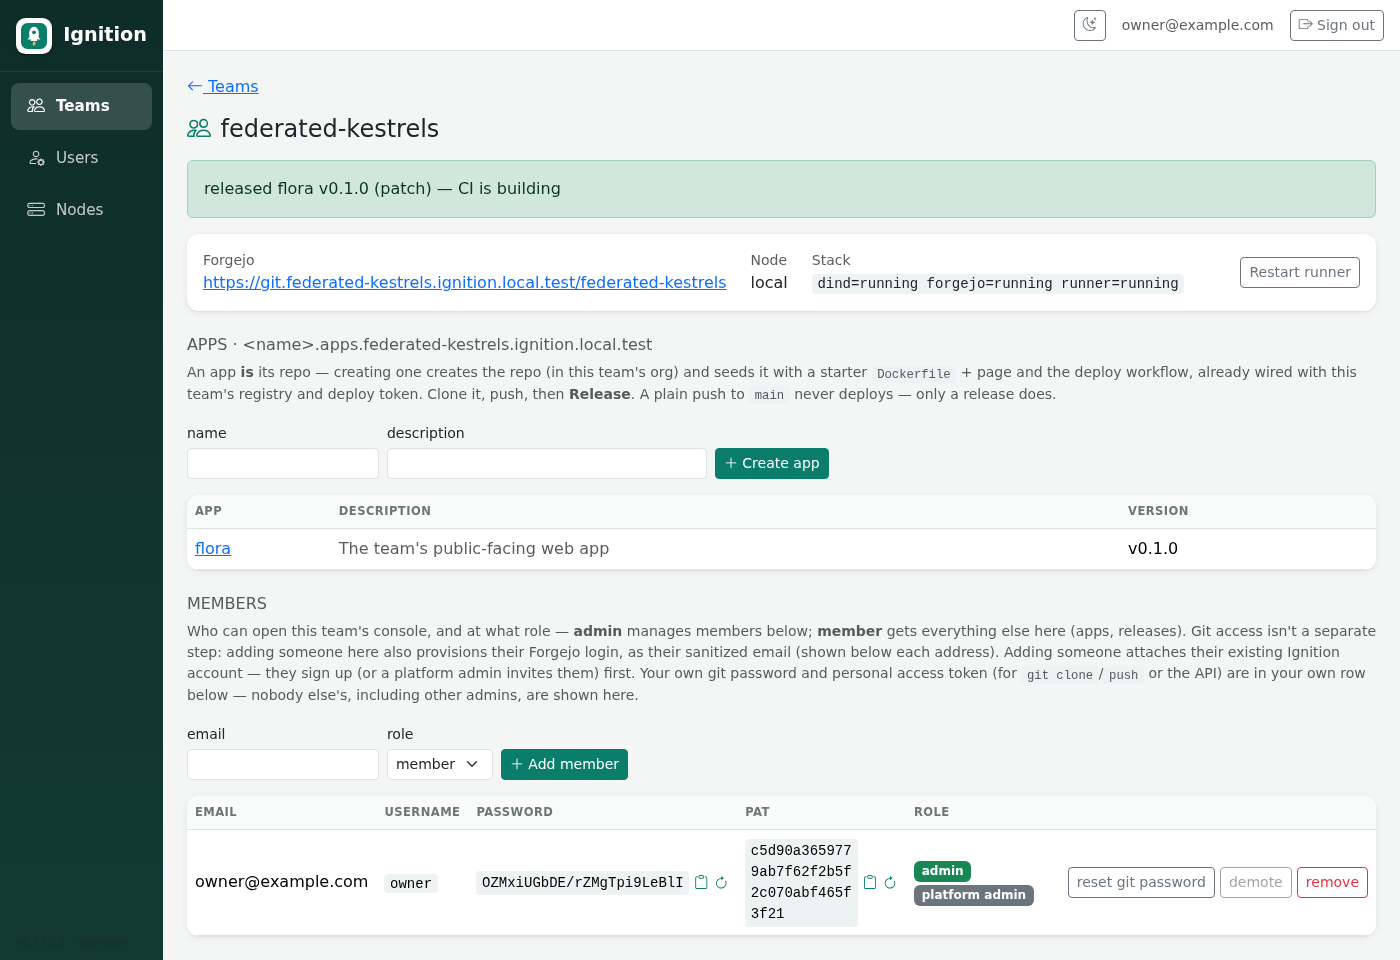
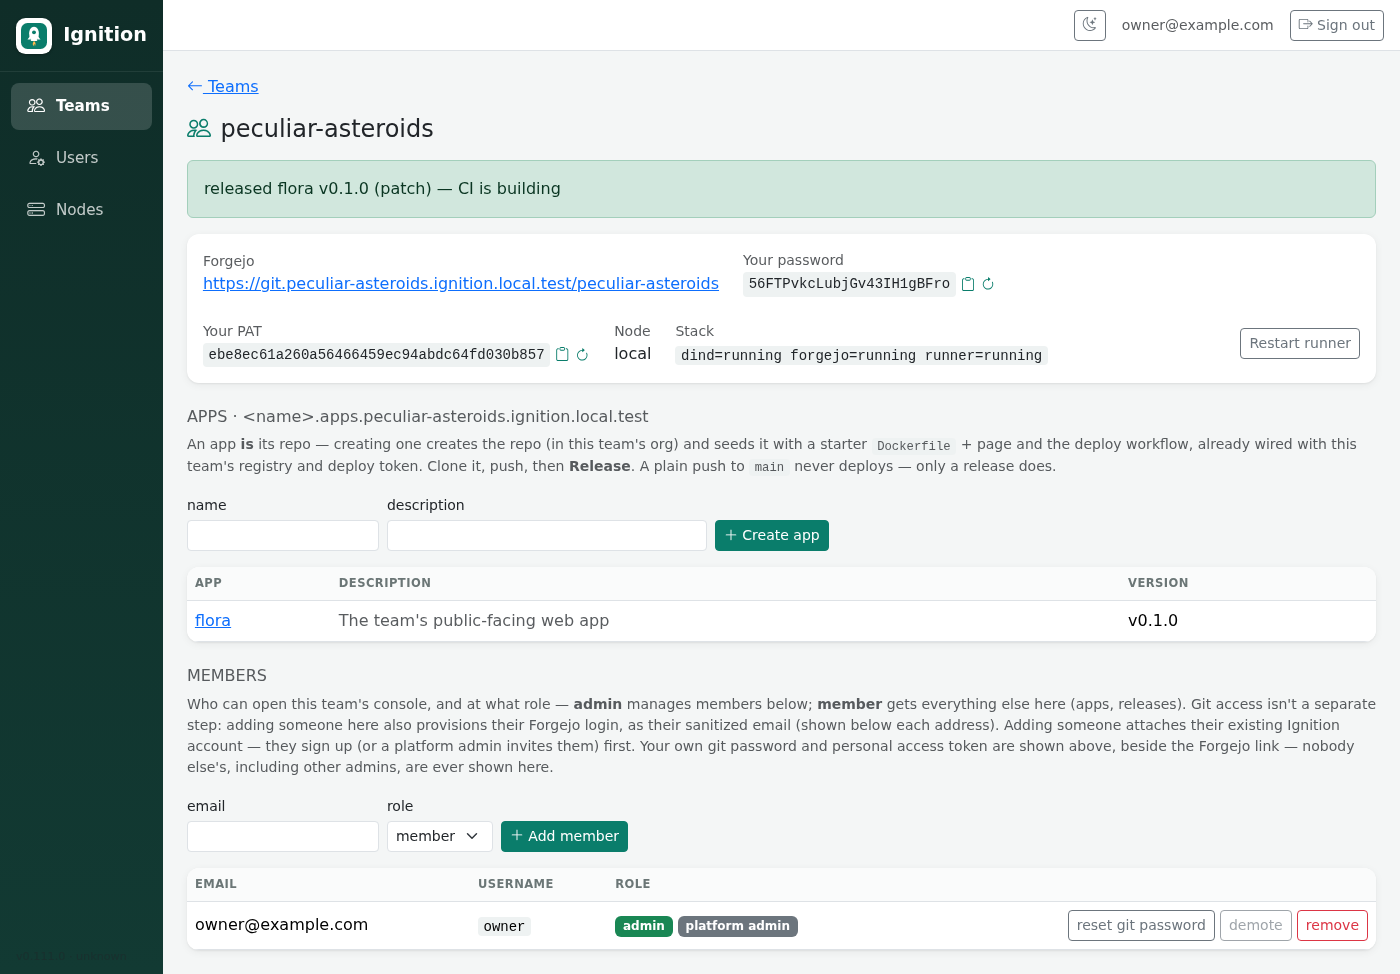
Regenerate roles.md screenshots against the current UI
Same live process as before — fresh ignition-control + throwaway
Postgres, a real provisioned team, a real issue/commit/PR/merge/
release cycle — re-run end to end so every screenshot reflects
v0.111.0's layout, not just the one that actually changed:
team-console.png now shows "Your password"/"Your PAT" on the top
card beside the Forgejo link (the point of this update), and the
Members table without those columns. issue-opened/pr-opened/released
were re-captured too even though unaffected, so the whole set is from
one consistent run rather than a patchwork of two. Caption text
updated to match — no more "screenshot predates this" caveat.

Claude-Session: https://claude.ai/code/session_01GEgvkxp9vBPD5rwkWEt4vM

diff --git a/docs/roles.md b/docs/roles.md
@@ -72,9 +72,8 @@ admin access, and no visibility into any other team.
 
 ![Team console — apps and members](img/team-console.png)
 
-*The team console: apps (name, description, version) and members. Your own
-git password and PAT are shown on the top card beside the Forgejo link
-(screenshot above predates that move — still shown per-row here), each with
+*The team console: your git password and PAT on the top card beside the
+Forgejo link, apps (name, description, version), and members. Each secret has
 a copy icon and a regenerate icon — nobody else's, including other admins,
 are ever shown.*
 
